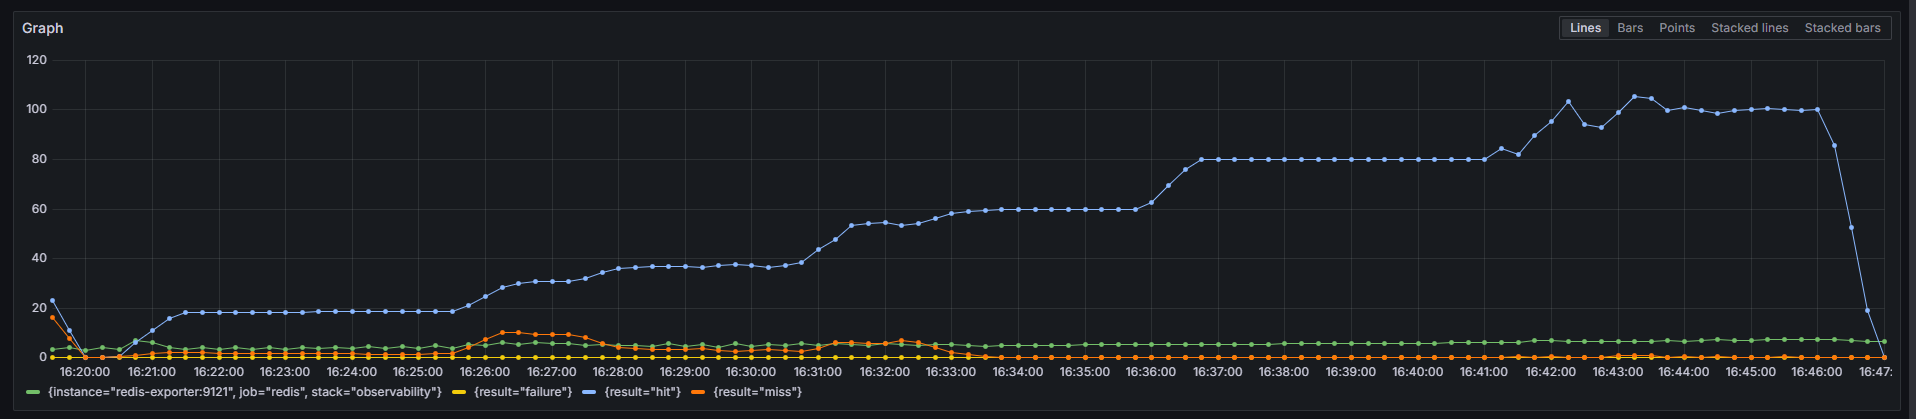
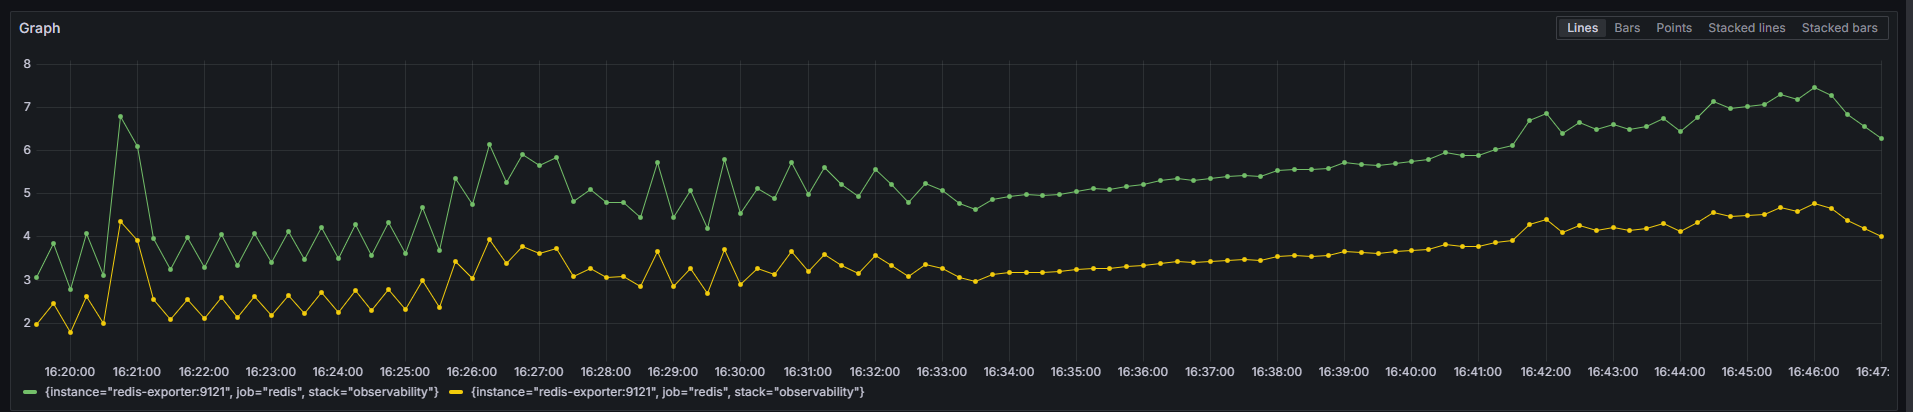
[Test] #539 Redis 예산 그래프 재촬영 + 최대 사용률 정정(6.76 → 7.46%)
1차 시도는 Redis(3-7%)가 캐시 hit(최대 100)과 같은 축에 있어 바닥에 눌렸다.
Redis 축만 남겨 다시 찍자 세로 눈금이 0-8 로 잡혀 읽힌다.

이 장이 수치를 하나 고쳤다 — 사용률을 "최대 6.76%"로 적었는데 그것은 100 계단 창의
중앙값이었고 **실제 최대는 7.46%(4.78 MiB)** 다. 회차 종료 직전에 나온다.
여유는 14배 → 약 13배로 정정. 결론(예산 안, failure 0)은 바뀌지 않는다.

그림이 하나 더 보여준다 — 초반의 톱니가 후반에 매끄러워진다. TTL 30초 만료로 캐시가
비었다 채워지는 주기가 낮은 도착률에서 드러나고, 도착률이 오르면 갱신이 촘촘해져
사라진다. §7.1 "히트율은 도착률이 오를수록 올라간다"와 같은 현상의 다른 얼굴이다.

Claude-Session: https://claude.ai/code/session_0182XxMABboFoq2VLVocyiYf

diff --git a/load-tests/k6/results/260731-539-seatmap-cache/report.md b/load-tests/k6/results/260731-539-seatmap-cache/report.md
@@ -7,7 +7,7 @@
 
 **좌석맵 JSON 캐싱으로 읽기 경로의 무릎이 60 → 100 이상 iters/s 로 밀렸고(최소 1.67배), before 가 무너지던 80 계단을 after 는 손실 없이 통과했다** — 그 지점의 서버 평균이 741 → 10.1 ms 로 **73배** 빨라졌다. 회차 전체 실패율이 4.92% → **0.00%** 다.
 
-부수로 셋을 얻었다. **캐시는 조회가 몰릴수록 잘 듣는다**(히트율 20 계단 92% → 80 계단 99.9% — 미스 원인인 TTL 만료·evict 가 도착률에 비례하지 않기 때문이다). **Redis 예산은 여유가 14배**이고 `failure` 가 전 구간 0 이라 좌석 락을 위협하는 경로는 열리지 않았다. **`#535` 의 사이드카 가설은 기각됐다**(§8).
+부수로 셋을 얻었다. **캐시는 조회가 몰릴수록 잘 듣는다**(히트율 20 계단 92% → 80 계단 99.9% — 미스 원인인 TTL 만료·evict 가 도착률에 비례하지 않기 때문이다). **Redis 예산은 여유가 약 13배**(최대 4.78 MiB / 64 MB)이고 `failure` 가 전 구간 0 이라 좌석 락을 위협하는 경로는 열리지 않았다. **`#535` 의 사이드카 가설은 기각됐다**(§8).
 
 **무릎의 정확한 위치는 이 회차가 답하지 못했다** — 100 계단에서도 소화율이 100% 라 상한을 못 봤다.
 
@@ -182,11 +182,11 @@ G3 의 `seat:seat-map:*` 0건이 곧 "캐시가 아직 없다"는 증적이다. 
 
 | | 값 |
 |---|---|
-| 최대 사용률 | **6.76%** (100 계단) = 약 4.3 MB / `maxmemory 64mb` |
+| 최대 사용률 | **7.46%** = **4.78 MiB** / `maxmemory 64mb` (회차 종료 직전. 100 계단 창 중앙값은 6.76%) |
 | 컨테이너 상한 | 128 MiB (`mem_limit`) |
 | `failure` 카운터 | **전 구간 0** |
 
-**예산 안이고 여유가 14배다.** `noeviction` 이라 상한에 닿으면 캐시 SET 이 아니라 **좌석 락 SET 이 거절되는데**(캐시는 fail-open, 락은 fail-closed 503 — [ADR 0008](../../../docs/adr/0008-accept-redis-spof-with-fail-closed.md)), `failure` 가 0 이므로 그 경로는 한 번도 열리지 않았다. `used` 만 보면 이 위험이 안 보이므로 두 축을 겹쳐 읽은 결과다.
+**예산 안이고 여유가 약 13배다.** `noeviction` 이라 상한에 닿으면 캐시 SET 이 아니라 **좌석 락 SET 이 거절되는데**(캐시는 fail-open, 락은 fail-closed 503 — [ADR 0008](../../../docs/adr/0008-accept-redis-spof-with-fail-closed.md)), `failure` 가 0 이므로 그 경로는 한 번도 열리지 않았다. `used` 만 보면 이 위험이 안 보이므로 두 축을 겹쳐 읽은 결과다.
 
 활성 공연 1건(2,080석, 값 약 221 KB) 기준이므로, 공연 수가 늘면 선형으로 증가한다. 64 MB 상한이면 산술적으로 약 290 공연분이나, TTL 30초라 동시에 상주하는 것은 **그 순간 조회되는 공연**뿐이다.
 

diff --git a/load-tests/k6/results/260731-539-seatmap-cache/grafana-capture-links.md b/load-tests/k6/results/260731-539-seatmap-cache/grafana-capture-links.md
@@ -107,7 +107,7 @@ http://localhost:3000/explore?orgId=1&schemaVersion=1&panes=%7B%22a%22%3A%7B%22d
 | `graph-before-ramp1-throughput.png` | ⚠ 부분 | 서버 avg 는 읽히나 **처리량(20-60 rps)이 0-800ms 스케일에 눌린다** |
 | `graph-before-ramp2-throughput.png` | ⚠ 부분 | 같은 이유. avg 가 80 계단에서 980ms 로 꺾이는 것은 잘 보인다 |
 | `graph-before-ramp2-saturation.png` | ⚠ 주의 | dropped 가 9.5K 라 **CPU(0-100)가 바닥에 눌린다.** after 장(스케일 300)과 세로 눈금이 달라 나란히 놓을 때 눈금을 반드시 읽을 것 |
-| `graph-after-redis-budget.png` | ❌ 실패 | Redis 사용률(3-7%)이 캐시 hit(최대 100)에 눌렸고 나머지는 앞 장과 중복이다. **아래 보완 링크로 다시 찍는다** |
+| `graph-after-redis-budget.png` | ✅ 다시 찍음 | 1차 시도는 Redis(3-7%)가 캐시 hit(최대 100)에 눌려 실패했다. Redis 축만 남겨 재촬영 — 세로 눈금 0-8 로 잡혀 읽힌다 |
 
 ### 🚨 `before-ramp1` 두 장의 앞부분은 이 회차 값이 아니다
 
@@ -119,10 +119,19 @@ http://localhost:3000/explore?orgId=1&schemaVersion=1&panes=%7B%22a%22%3A%7B%22d
 
 **그림만 보면 "1차 회차 초반에 손실이 있었다"로 오독된다.** 표(`report.md` §5)가 옳다.
 
-### 보완 링크 — graph-after-redis-budget.png 다시 찍기
+### 보완 링크 — graph-after-redis-budget.png (재촬영 완료)
 
-Redis 축만 남긴다(사용률 % + 실사용 MiB). 세로 눈금이 0-10 대로 잡혀 3-7% 구간이 읽힌다.
-**`#469` 완료조건("128 MiB 상한 내 동작")의 그림 증적이므로 이 장은 다시 찍을 값이 있다.**
+Redis 축만 남긴다(사용률 % + 실사용 MiB). 세로 눈금이 0-8 로 잡혀 읽힌다.
+**`#469` 완료조건("128 MiB 상한 내 동작")의 그림 증적이다.**
+
+> ✅ **다시 찍었고, 이 장이 수치를 하나 고쳤다.** 사용률을 "최대 6.76%"로 적었는데 그것은
+> 100 계단 창의 중앙값이었고 **실제 최대는 7.46%(4.78 MiB)** 다 — 회차 종료 직전에 나온다.
+> `report.md` §7.2 · `metadata.txt` 를 정정했다.
+>
+> 그림이 하나 더 보여준다 — **초반(16:20-16:33 KST)의 톱니가 후반에 매끄러워진다.**
+> TTL 30초 만료로 캐시가 비었다 채워지는 주기가 낮은 도착률에서 그대로 드러나고,
+> 도착률이 오르면 갱신이 촘촘해져 사라진다. §7.1 의 "히트율은 도착률이 오를수록
+> 올라간다"와 같은 현상의 다른 얼굴이다.
 
 측정 창: 2026-07-31T07:19:30Z ~ 2026-07-31T07:47:00Z (UTC)
 
